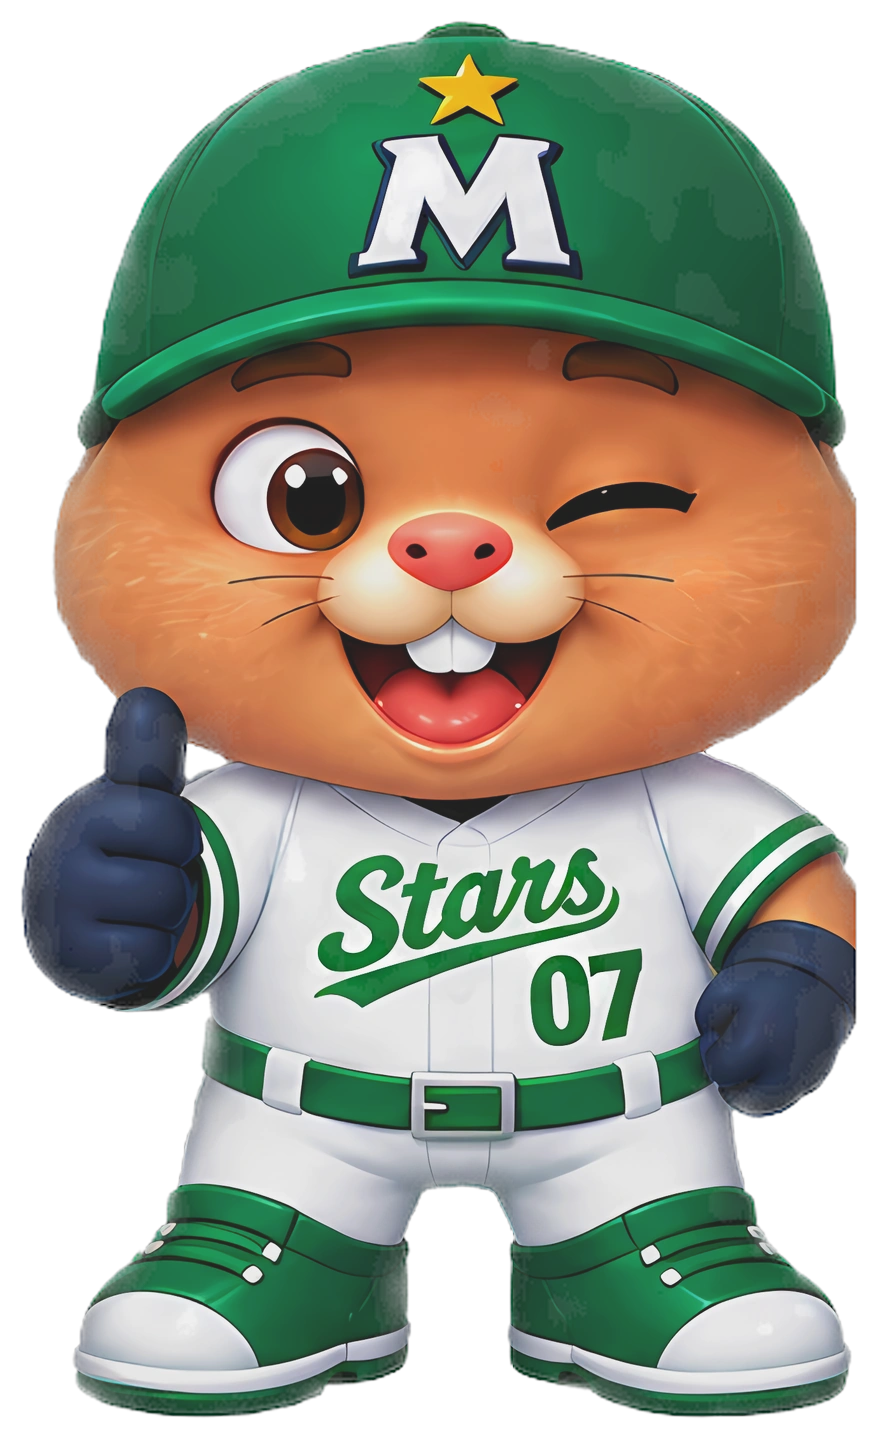
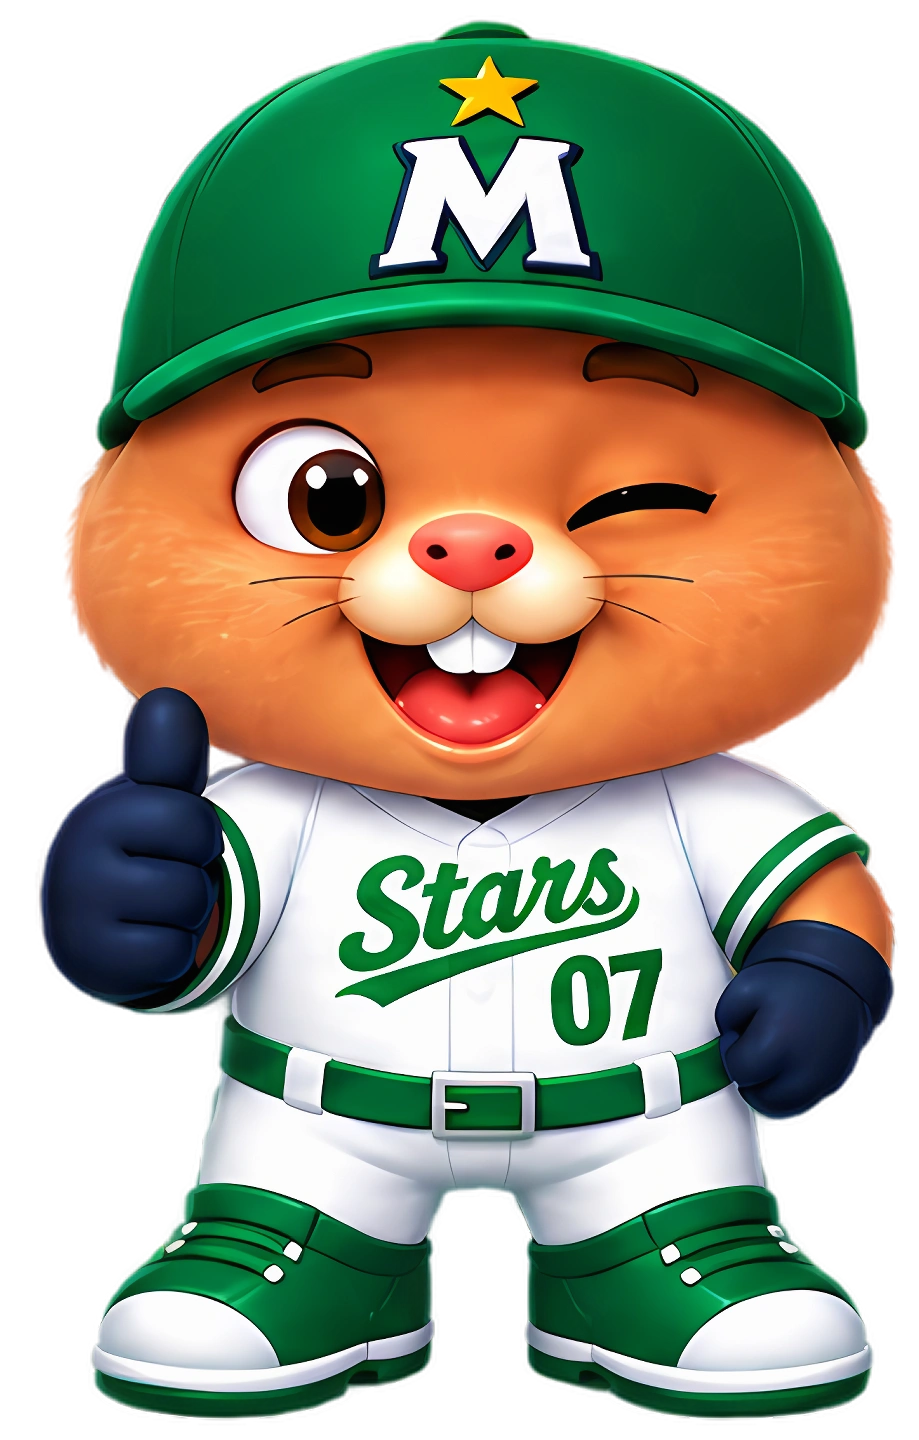
V1427 C: costume Stars right cheek/arm no longer cut (re-extracted + ESRGAN)
Claude-Session: https://claude.ai/code/session_01EVXCKBYQFqBEf1u42ToLZp

diff --git a/mole/index.html b/mole/index.html
@@ -1104,7 +1104,7 @@
         <!-- 배포 버전 표식(스크린샷으로 어느 버전인지 확인용) — 화면 좌하단에 두면 다른 UI에
              가려 잘 안 보인다는 사용자 지적으로, 하트 아이콘(다이얼패드 1번 칸) 바로 위로 이동. -->
         <div class="h2-preload" aria-hidden="true"></div><!-- v951: 게임 중 버튼 색(초록·노랑·빨강·분홍·회색) 미리 읽어 두기 — 처음 바뀔 때 깜빡임 방지 -->
-        <div id="build-tag" aria-hidden="true">V 1426 C</div>
+        <div id="build-tag" aria-hidden="true">V 1427 C</div>
         <!-- 피버타임(터치캐치 보너스타임) 전광판 — 버튼보드 자리를 통째로 덮는 오버레이,
              평소엔 hidden, 피버 중에만 콤보/잔여시간 표시(사용자 지정: "전광판처럼"). -->
         <div id="fever-scoreboard" class="fever-scoreboard" hidden>
@@ -1381,7 +1381,7 @@ window.FGH.rollOut = function (el, done) {
       } else {
         // ?v= 로 매 배포마다 URL을 바꿔서 GitHub Pages의 sw.js 캐시(max-age=600)를 무조건 우회 —
         // 안 그러면 배포 직후에도 최대 10분간 옛 서비스워커가 안 갈리는 경우가 있었음(사용자 보고).
-        navigator.serviceWorker.register('sw.js?v=1426-C').catch(function () {});
+        navigator.serviceWorker.register('sw.js?v=1427-C').catch(function () {});
       }
     });
   }

diff --git a/mole/js/inventory-screen.js b/mole/js/inventory-screen.js
@@ -382,7 +382,7 @@
       // 눈 감은 그림(같은 자리·크기)을 위에 겹쳐 두고 아주 잠깐만 보여 깜빡임
       var CHB = function (id) { return '<img alt="" src="' + CH(id) + '"><img class="cs-blink" alt="" src="assets/costume/char-' + id + '-blink-v1406.webp">'; };
       // 사용자: 위 진열장 캐릭터는 양발 기준 좌우 가운데(그림마다 양발 가운데가 달라 그만큼 옮김)
-      var FEET = { blue_bears: 7.92, mount_stars: -2.5, cloud_cups: -4.63 };
+      var FEET = { blue_bears: 7.92, mount_stars: -2.39, cloud_cups: -4.63 };
       var sel = MG.CostumeTeams.teamById(costumeSelectedId);
       var cards = MG.CostumeTeams.teams().map(function (t) {
         var owned = MG.CostumeTeams.owns(t.id);

diff --git a/mole/sw.js b/mole/sw.js
@@ -3,7 +3,7 @@
 // 폴백 전용으로만 갱신한다. (예전엔 stale-while-revalidate라 배포해도 "다음 실행"에야
 // 반영돼 사용자 체감 대기가 길었음 — 온라인=항상 최신, 오프라인=마지막 캐시로 변경.)
 // SHELL 목록 자체가 바뀔 때만 CACHE 를 올린다.
-const CACHE = 'mole-game-v1426-C';
+const CACHE = 'mole-game-v1427-C';
 
 // 화면별 BGM(audio/bgm-*.mp3)은 v275 부터 SHELL 에 포함 — 기본 켜짐(v272)이라 항상 필요하고,
 // 캐시가 안 돼 있으면 오프라인/느린망에서 재생 실패했음.

diff --git a/AGENTS.md b/AGENTS.md
@@ -4,6 +4,9 @@
 - 사용자 후속: 알 타격 때 기울이지 말고 게임 대기 각도(18°) 그대로 — .ws-ham 시작·is-in·is-hit·is-out 모두 rotate(18deg), 위(-30%)→아래(5%) 내려침, 타격점 오른쪽 소폭(translate X -55%).
 - 사용자: 황금알 망치 = 지금 망치 그림 + 파란 번개(GPT 6장 ham-gold-zap1~6-v1409, 같은 크기·자리), 나타날 때부터 타격 직전까지 80ms 번갈아, 타격 순간 번개 없는 그림.
 - 사용자: 게임 지진 발동 때도 무기에 번개 — 메인 골드 + 지진 분신(45 포즈)에 goldZap(0.72초). 버벅임 방지: 게임용 작은 그림 goldpaw-zap1~6-v1409(258×360), 미리 디코드해 붙잡아 둠, 동시에 최대 4개.
+## 2026-10-24 / V1427 C — 코스튬 스타즈 오른쪽 볼·팔 잘림 수정
+- 사용자: 코스튬 스타즈 우측 볼·팔 잘림, 원본 = 바탕화면 에셋1.png(투명, 겹침 없음) 스케일업 적용 → 시트에서 스타즈만 뽑아 Real-ESRGAN x4plus-anime, 기존 char-mount_stars-v1406 자리·크기에 맞춤(알파는 원본), 팔이 칸 끝에 닿아 좌우 20px 넓힘(879→919, FEET -2.5→-2.39% 로 위치 그대로). 깜빡임 = 기존 blink 의 감은 눈만 털색 맞춰 합성. 파일 이름 그대로 교체.
+
 ## 2026-10-24 / V1426 C — 사진관 합성 캐릭터 크기 = 합성 전과 같게
 - 사용자: 얼굴 합성 후 스타즈 듬직형이 작아짐(캐릭 크기는 그대로여야) → 원인 = 합성 그림은 370×540 칸 통째, 미보유 카드는 둘레만 자른 -hd 라 카드 안에서 작게 보임. photo-studio.js imageFor 가 합성 그림을 -hd 와 같은 둘레로 잘라 보여줌(저장값·합성 과정은 그대로, 이미 합성한 것도 적용).
 
